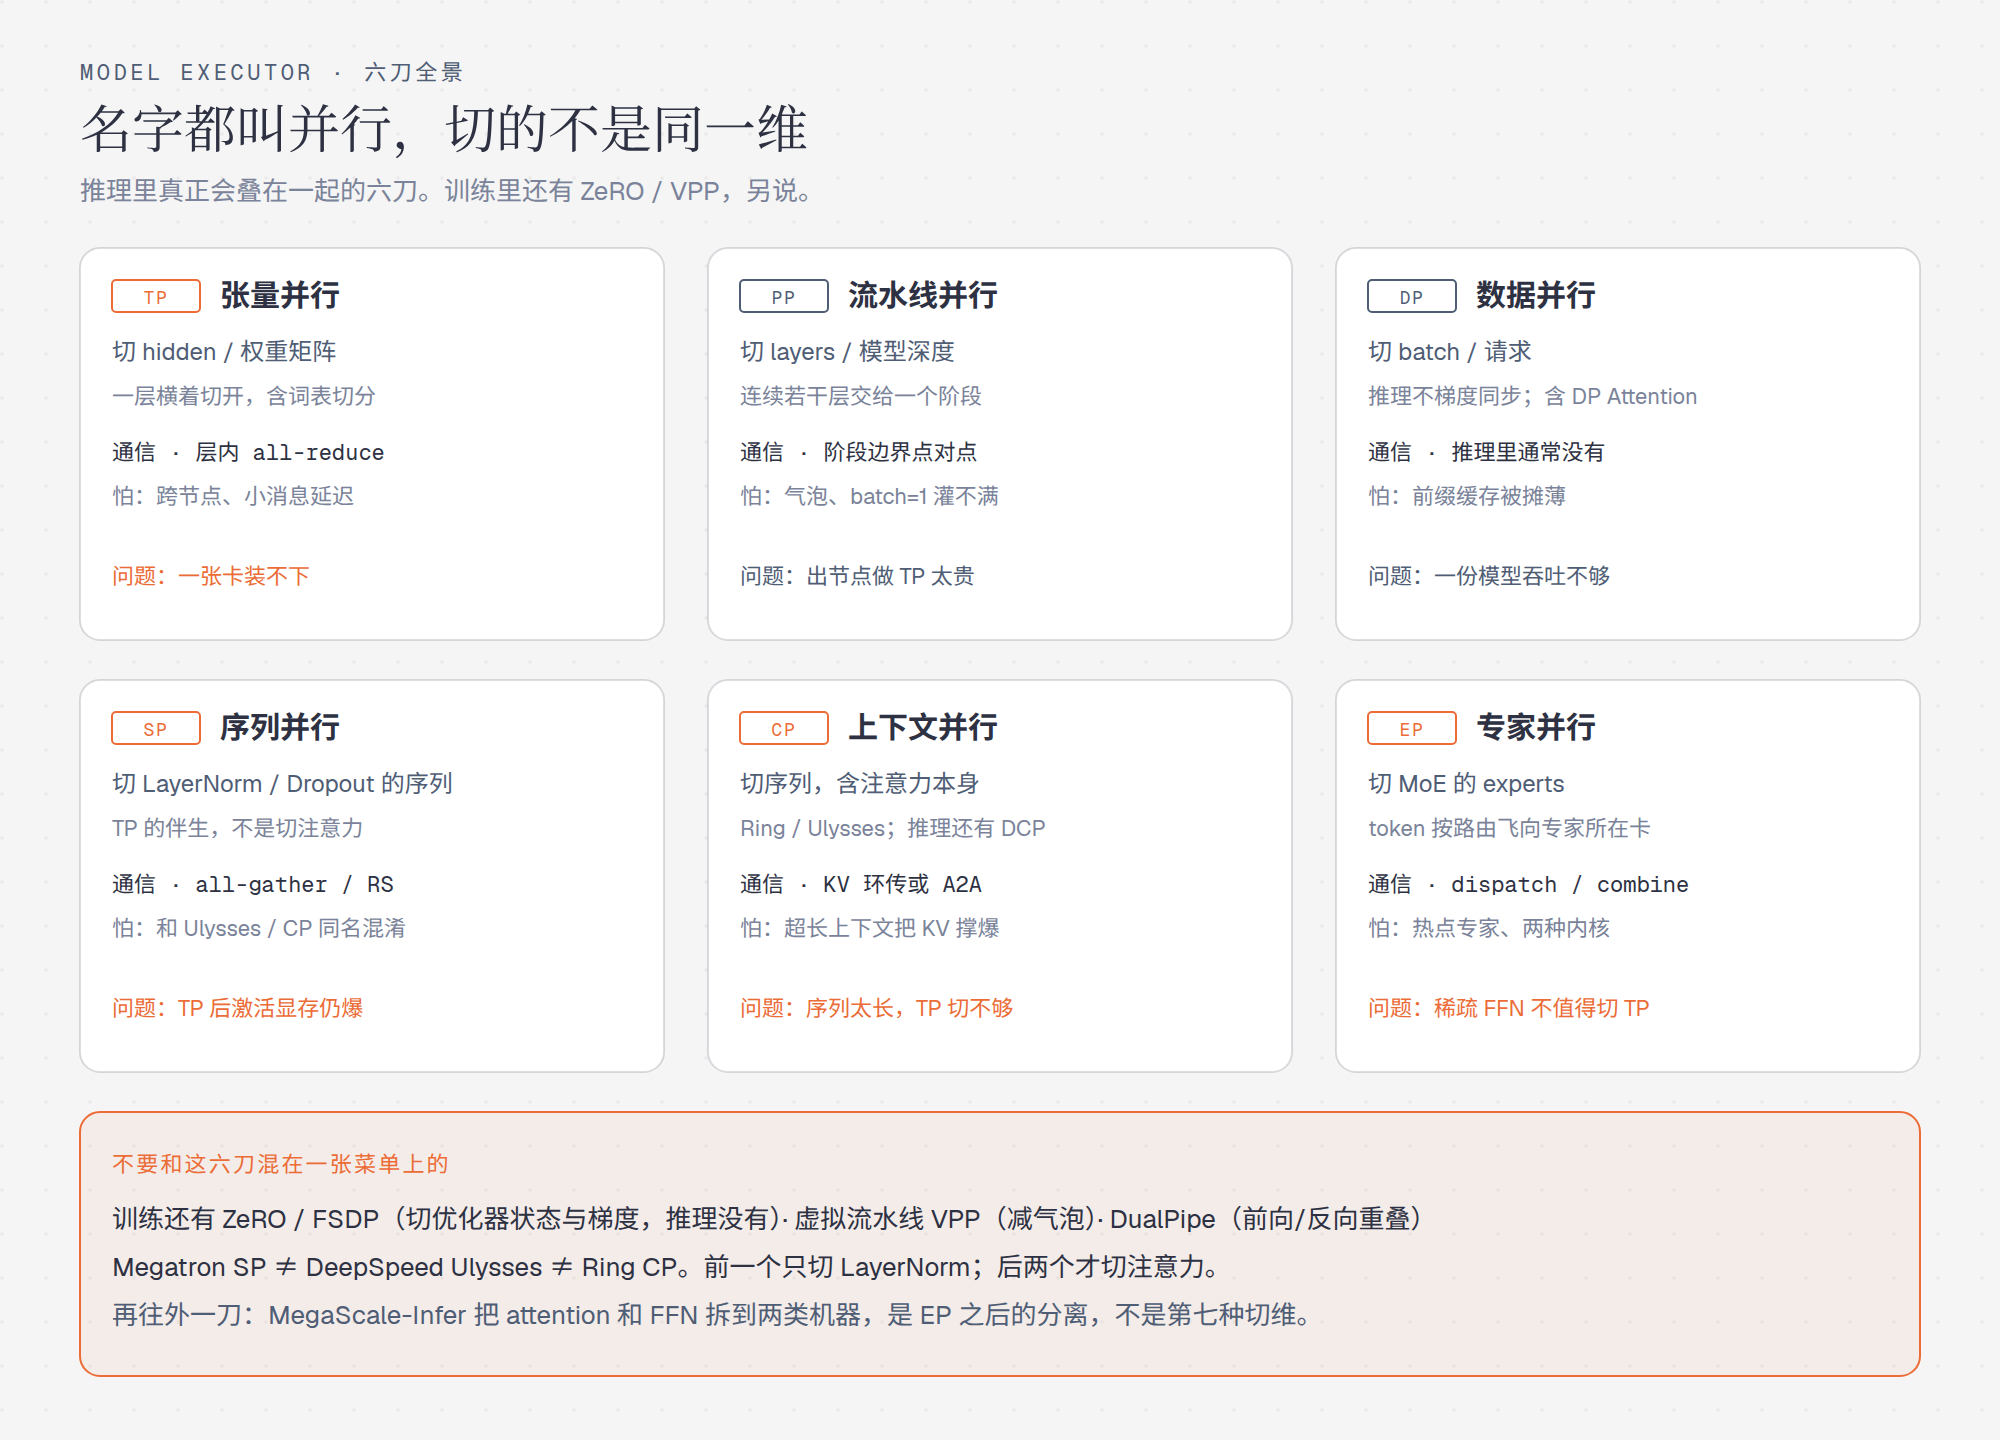
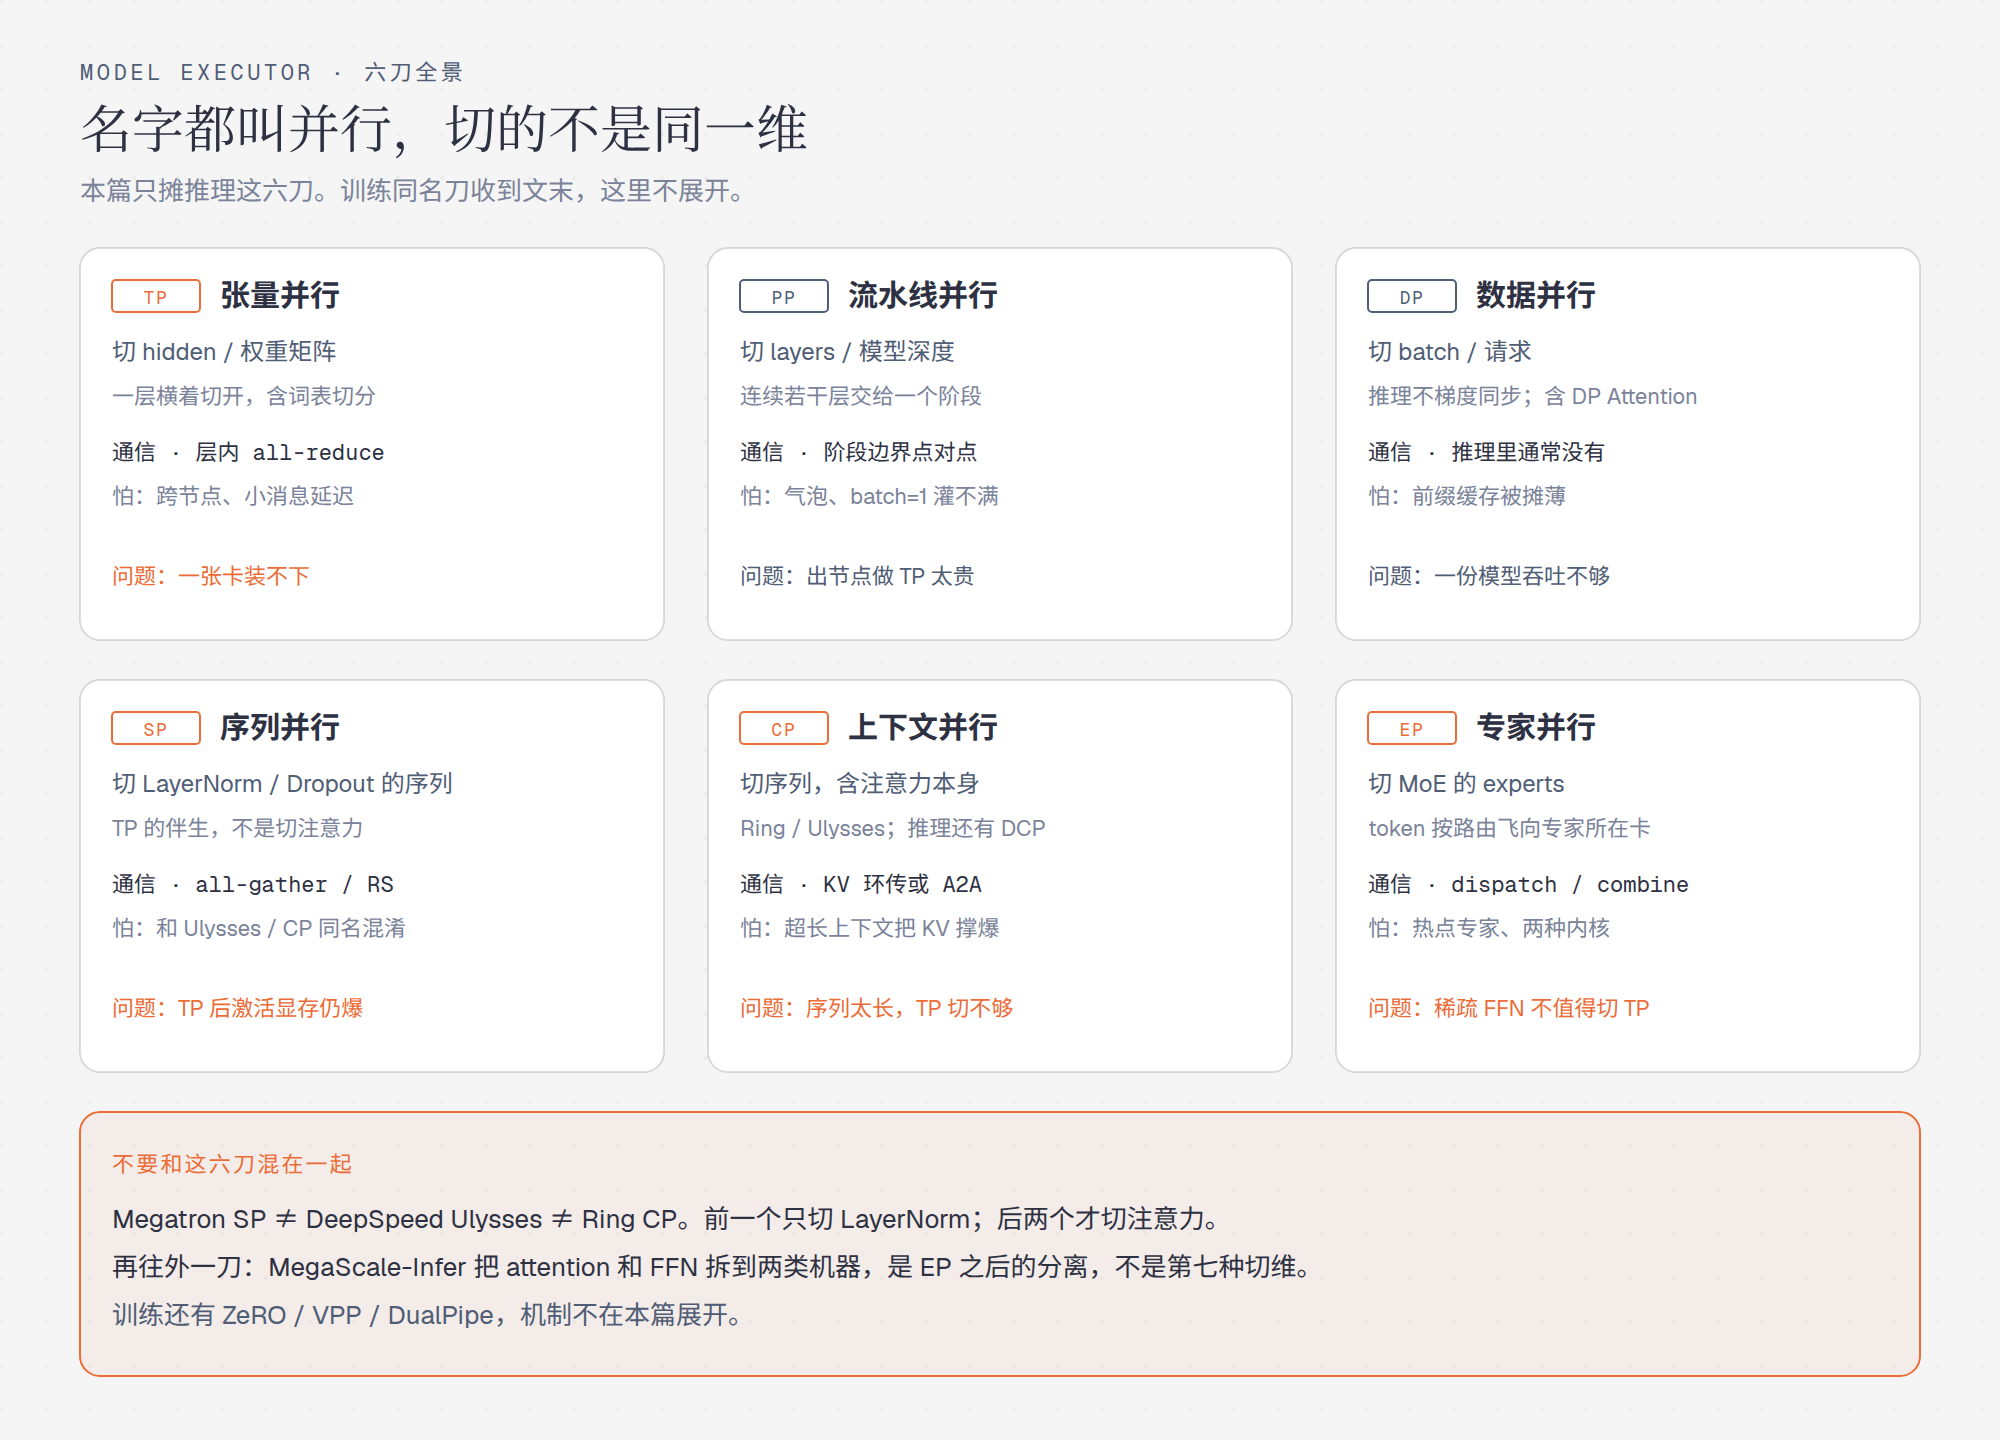
第6篇: 正文只讲推理并行，去掉厨房类比
训练同名刀收到文末点到为止；贯穿说明改成切 [B,S,H]，不再用后厨分工。

Changed region(s): [[0.062, 0.7812, 0.713, 0.9375], [0.031, 0.125, 0.403, 0.1562]]

diff --git a/diagrams/parallelism-moe/diagram-taxonomy.html b/diagrams/parallelism-moe/diagram-taxonomy.html
@@ -20,7 +20,7 @@
 
       <text x="40" y="40" fill="#4f5d75" font-size="11" font-family="'Geist Mono','Noto Sans CJK SC',monospace" letter-spacing="0.16em">MODEL EXECUTOR · 六刀全景</text>
       <text x="40" y="74" fill="#2d3142" font-size="26" font-family="'Instrument Serif','Noto Serif CJK SC',serif">名字都叫并行，切的不是同一维</text>
-      <text x="40" y="100" fill="#7a8399" font-size="13" font-family="'Geist','Noto Sans CJK SC',sans-serif">推理里真正会叠在一起的六刀。训练里还有 ZeRO / VPP，另说。</text>
+      <text x="40" y="100" fill="#7a8399" font-size="13" font-family="'Geist','Noto Sans CJK SC',sans-serif">本篇只摊推理这六刀。训练同名刀收到文末，这里不展开。</text>
 
       <!-- row 1 -->
       <rect x="40" y="124" width="292" height="196" rx="10" fill="#ffffff" stroke="rgba(45,49,66,0.16)"/>
@@ -85,10 +85,10 @@
       <text x="684" y="508" fill="#eb6c36" font-size="11" font-family="'Geist','Noto Sans CJK SC',sans-serif">问题：稀疏 FFN 不值得切 TP</text>
 
       <rect x="40" y="556" width="920" height="132" rx="10" fill="rgba(235,108,54,0.06)" stroke="#eb6c36"/>
-      <text x="56" y="586" fill="#eb6c36" font-size="11" font-family="'Geist Mono','Noto Sans CJK SC',monospace" letter-spacing="0.10em">不要和这六刀混在一张菜单上的</text>
-      <text x="56" y="614" fill="#2d3142" font-size="13" font-family="'Geist','Noto Sans CJK SC',sans-serif">训练还有 ZeRO / FSDP（切优化器状态与梯度，推理没有）· 虚拟流水线 VPP（减气泡）· DualPipe（前向/反向重叠）</text>
-      <text x="56" y="638" fill="#2d3142" font-size="13" font-family="'Geist','Noto Sans CJK SC',sans-serif">Megatron SP ≠ DeepSpeed Ulysses ≠ Ring CP。前一个只切 LayerNorm；后两个才切注意力。</text>
-      <text x="56" y="662" fill="#4f5d75" font-size="13" font-family="'Geist','Noto Sans CJK SC',sans-serif">再往外一刀：MegaScale-Infer 把 attention 和 FFN 拆到两类机器，是 EP 之后的分离，不是第七种切维。</text>
+      <text x="56" y="586" fill="#eb6c36" font-size="11" font-family="'Geist Mono','Noto Sans CJK SC',monospace" letter-spacing="0.10em">不要和这六刀混在一起</text>
+      <text x="56" y="614" fill="#2d3142" font-size="13" font-family="'Geist','Noto Sans CJK SC',sans-serif">Megatron SP ≠ DeepSpeed Ulysses ≠ Ring CP。前一个只切 LayerNorm；后两个才切注意力。</text>
+      <text x="56" y="638" fill="#2d3142" font-size="13" font-family="'Geist','Noto Sans CJK SC',sans-serif">再往外一刀：MegaScale-Infer 把 attention 和 FFN 拆到两类机器，是 EP 之后的分离，不是第七种切维。</text>
+      <text x="56" y="662" fill="#4f5d75" font-size="13" font-family="'Geist','Noto Sans CJK SC',sans-serif">训练还有 ZeRO / VPP / DualPipe，机制不在本篇展开。</text>
     </svg>
   </div>
 </body>

diff --git a/docs/series-roadmap.md b/docs/series-roadmap.md
@@ -19,7 +19,7 @@
 | 3   | 推理调度（单机篇）：Continuous Batching 到缓存感知调度 | Scheduler（单机 step 循环）                           | OS 的 CPU 调度       | 排队/批处理吞吐与时延仿真                | ✅   |
 | 4   | PD 分离：把 Prefill 和 Decode 拆到不同 GPU 池          | KVConnector / KV transfer                             | 工厂车间的专业化分工 | P/D 配比与传输开销仿真                   | ✅   |
 | 5   | 推理调度（分布式篇）：缓存感知路由到全局准入控制       | Router / 准入控制 / 扩缩容                            | 打车平台派单中心     | 缓存感知路由 / 亲和 vs 均衡 / 早拒绝仿真 | ✅   |
-| 6   | 大模型的各种并行：从张量切分到上下文并行               | Model Executor / TP·SP·PP·DP·CP·EP / EPLB·DeepEP      | 大厨团队的分工       | —                                        | 🚧   |
+| 6   | 大模型的各种并行：从张量切分到上下文并行               | Model Executor / TP·SP·PP·DP·CP·EP / EPLB·DeepEP      | 切 [B,S,H] 积木      | —                                        | 🚧   |
 | 7   | 推理模型（long-CoT）服务                               | 调度 + KV 生命周期在长思维链下的新负载                | 考场里的大考         | 长 CoT 下 KV 占用与 straggler 仿真       | ⬜   |
 | 8   | GPU 架构与现有 GPU（含 Attention Kernel）              | 硬件 / Roofline / Attention Kernels（FlashInfer/FA3） | GPU = 一座工厂       | Roofline 与 kernel 访存/算力仿真         | ⬜   |
 | 9   | 推测解码（Speculative Decoding）                       | Speculative proposer（EAGLE / MTP / n-gram）          | 抢答 + 复核          | 接受率/加速比与高并发失效仿真            | ⬜   |
